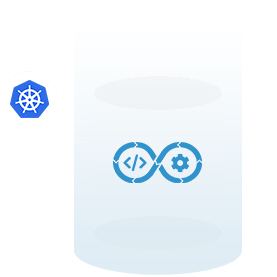
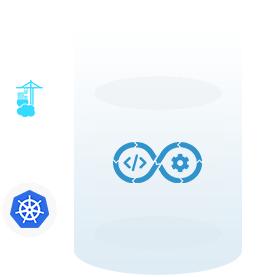
portainer changes added.

Changed region(s): [[0.0289, 0.6643, 0.2022, 0.8375], [0.0289, 0.2888, 0.1733, 0.4332]]

diff --git a/en/devops/portainer/_index.md b/en/devops/portainer/_index.md
@@ -1,0 +1,30 @@
+---
+keywords: kubernetes container orchestration, kubernetes microservices architecture, best container management platform, best container management software, container orchestration using kubernetes, kubernetes container orchestration platform
+title: Portainer | Open Source Container Management Tool
+description: Portainer is a universal container-as-a-service, simplified, container management tool set designed to build and manage Docker Swarm and Kubernetes environments
+singlepageh1title: A lightweight & self-hosted container management platform
+singlepageh2title: Portainer is an open source simple to deploy and powerful management UI. It allows you to easily build, manage, and maintain Docker and Kubernetes environments.
+Shortdescriptionlistingpage: Portainer is a powerful and lightweight contianer management UI which allows you to easily build, manage, and maintain Swarm and Kubernetes environments.
+linktitle: Portainer
+Imagetext: Devops Tool
+draft: false
+weight: 3
+layout: "single"
+GithubLink: https://github.com/portainer/portainer
+HomePage_TitleText: Open Source Devops Tool
+
+ListingPage_MenuImage_TitleText: Portainer logo
+ListingPage_MenuImage_AltText: Best Open Source Devops Tool
+ListingPage_Link_TitleText: Explore Portainer
+
+SinglePage_HeaderImage_TitleText: Portainer | Open Source Container Management Tool
+SinglePage_HeaderImage_AltText: Portainer | Open Source Container Management Tool
+SinglePage_MenuImage_TitleText: Portainer | Open Source Container Management Tool
+SinglePage_MenuImage_AltText: Portainer | Open Source Container Management Tool
+
+
+---
+
+Portainer Business is fully featured, fully supported, and suitable for use in both single and multi-cluster environments. It provides the platform security and management functionality organizations need to run containers at scale. Portainer is a container management tool that "allows anyone to deploy and manage containers without the need to write code. 
+
+Portainer is a universal container-as-a-service solution that works with Docker and Kubernetes. It helps organizations manage and deploy cloud-native applications and can be deployed on top of any Kubernetes distro in the cloud, on-premise, and at the edge. The tool can be supported on Windows and also on Linux systems, and the deployment Authentication tools offered are powerful, and even the system interface arrangement is excellent.

diff --git a/en/devops/portainer/installation.md b/en/devops/portainer/installation.md
@@ -1,0 +1,40 @@
+---
+title: Installation Guide
+onpagelink: installation
+weight: 3
+
+---
+
+### **Installation Instructions**
+
+### Install Portainer with Docker on Linux
+
+This document installation steps assume that all the depency packages of the community edition of Portainer are installed and up to date on your Linux environment. For Linux operating system setup, please follow the below installions steps to install the Portainer Server container. First, create the volume that Portainer Server will use to store its database using below command:
+
+    docker volume create portainer_data
+
+Next, download and install the Portainer Server container by running below in terminal:
+
+    docker run -d -p 8000:8000 -p 9443:9443 --name portainer \
+        --restart=always \
+        -v /var/run/docker.sock:/var/run/docker.sock \
+        -v portainer_data:/data \
+        portainer/portainer-ce:latest
+
+By default, Portainer installation generates a self-signed SSL certificate to secure port 9443. If you need HTTP port 9000 open for legacy reasons then you can add the following in docker run command:
+
+    -p 9000:9000
+
+Now you can check to see whether the Portainer Server container has started by running docker ps commamd:
+
+    docker ps
+
+Optionally you can install the Portainer Agent alongside your Portainer Server installation and Docker standalone by runing the following command:
+
+    docker run -d -p 9001:9001 --name portainer_agent --restart=always -v /var/run/docker.sock:/var/run/docker.sock -v /var/lib/docker/volumes:/var/lib/docker/volumes portainer/agent:latest
+
+Portainer Agent provides additional functionality such as volume browsing from Portainer. Now, you can log into your Portainer Server instance by browsing url:
+
+    https://localhost:9443
+
+You need to replace localhost with the IP or Fully qualified domain name(FQDN) and you will see the initial setup page for Portainer Server. That's it, Portainer Server has been installed. Congratulations! You have successfully setup Portainer Server on Linux. Enjoy!

diff --git a/en/devops/portainer/faqs.md b/en/devops/portainer/faqs.md
@@ -1,0 +1,19 @@
+---
+title: FAQs
+onpagelink: faqs
+weight: 4
+
+---
+
+### **FAQs**
+
+### What is Portainer used for?
+Portainer is a free easy to use and open source contianer management UI for Docker and Kubernetes environment. Portainer makes it easier for you to manage your Docker containers, images, networks, and volumes from the web based Portainer GUI dashboard.
+### Is Portainer free?
+Yes, Portainer CE is free to use and download container management tool for container environments.
+### Is Portainer open source?
+Yes, Portainer is open source container orchestration management software. Portainer source code repository is available at [Github](https://github.com/portainer/portainer).
+### In what language is Portainer written?
+Portainer is written in Go and Javascript programming languages.
+### Does Portainer work with Kubernetes?
+Portainer works with all flavors of either self hosted or managed Kubernetes to ensure any app deployed is safe and secure.

diff --git a/en/devops/_index.md b/en/devops/_index.md
@@ -1,5 +1,6 @@
 ---
-title: Open Source Devops Tools List | Kubernetes and Alternatives
+keywords: devops tools list, top devOps tools, devops technologies, open source devops tools, devops open source, tools used in devops
+title: Open Source Devops Tools List | Kubernetes & Alternatives
 description: DevOps is a methodology to improve and combine software development (Dev) and IT operations (Ops). It focuses on constant testing and rapid IT service delivery.
 singlepageh1title: Best Open Source Devops Tools
 singlepageh2title: DevOps technologies bring development and operations teams together by combining software development and IT operations. It focuses on constant service delivery

diff --git a/en/devops/portainer/explore.md b/en/devops/portainer/explore.md
@@ -1,0 +1,14 @@
+---
+title: Explore
+onpagelink: explore
+weight: 5
+
+---
+
+### **Explore**
+
+In this article we discussed about open source container management Portainer CE tool. To learn about other top open source container orchestration and management tools, please visit following page:
+
+*   **[Top 5 Open Source Container Orchestration Tools for DevOps](https://blog.containerize.com/2021/10/11/top-5-open-source-container-orchestration-tools-for-devops-in-2021/)**
+*   **[Open source Container Orchestration Tools](https://products.containerize.com/devops/)**
+ 

diff --git a/en/devops/portainer/requirements.md b/en/devops/portainer/requirements.md
@@ -1,0 +1,20 @@
+---
+title: System Requirements
+onpagelink: requirements
+weight: 1
+
+---
+
+
+### **System Requirements**
+
+The installation instructions make the following assumptions for the Portainer Server container on your Linux environment:
+
+*   The latest version of Docker installed
+*   sudo access to host Portainer Server instance
+*   Port 9443 to access the UI and API
+*   TCP tunnel server over port 8000
+*   Access to Docker via Unix sockets
+*   SELinux is disabled
+*   Docker is running as root
+ 

diff --git a/en/devops/portainer/features.md b/en/devops/portainer/features.md
@@ -1,0 +1,21 @@
+---
+title: Features
+onpagelink: features
+weight: 2
+
+---
+
+### **Features**
+
+Portainer CE container-as-a-service solution supports a wide range of features to manage the Docker containers. Some of the key features of Portainer are listed below:
+
+
+*   Access control management
+*   Deploy cloud-native applications
+*   Network isolation
+*   Application logging
+*   Cluster visualization
+*   Container networking
+*   Registry and storage management
+*   Orchestration
+*   Backup and restore
